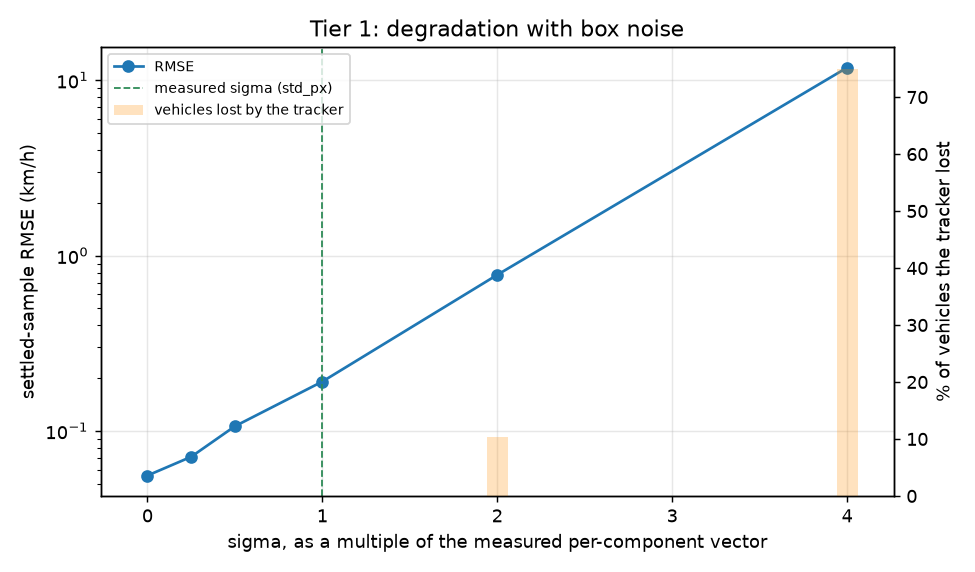
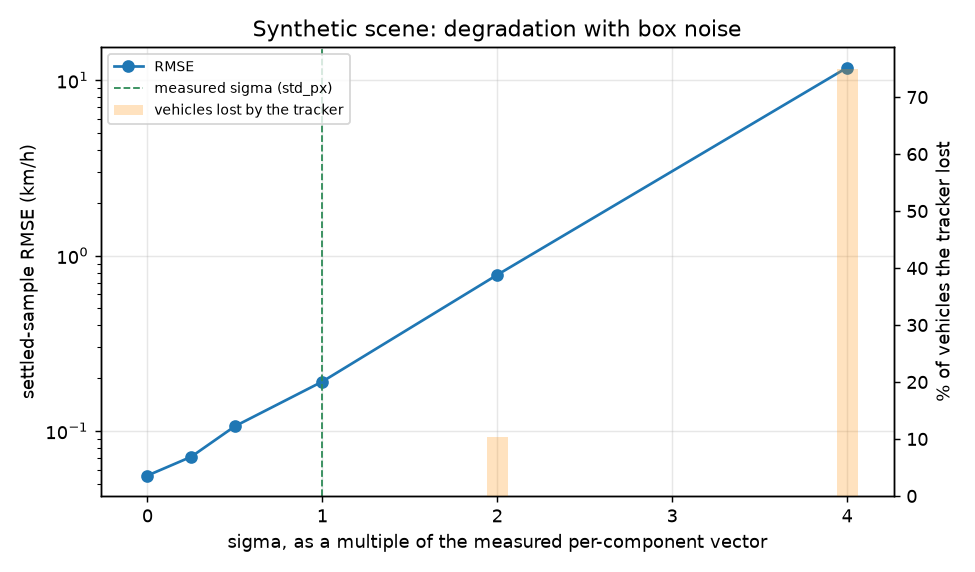
Measure the Kalman smoothing trade instead of asserting it, and widen the word guard to catch inflections

Changed region(s): [[0.2462, 0.0297, 0.7692, 0.0892]]

diff --git a/scripts/bench_speed.py b/scripts/bench_speed.py
@@ -73,7 +73,15 @@ LIMITATIONS = (
     "recall, class confusion, or how a real detector places a box on a "
     "real vehicle. The box-noise sigma is taken from "
     "reports/detection_noise.json, which labels itself a PROXY for "
-    "detector jitter and is not a measurement of the detector either."
+    "detector jitter and is not a measurement of the detector either. "
+    "CALIBRATION ERROR IS EXCLUDED BY CONSTRUCTION as well: the road "
+    "plane is fitted from correspondences generated by the same camera, "
+    "and the true road-plane-to-image mapping IS a homography, so the fit "
+    "recovers that camera to about 6e-6 m. That is deliberate -- it "
+    "removes calibration error from the measurement so what remains is "
+    "the chain under test -- but it means the figures here are an upper "
+    "bound on field accuracy, not a prediction of it. A real deployment "
+    "carries survey error on top, and it is usually the larger term."
 )
 
 #: Speed bands the report covers, km/h. Spans congested urban-motorway
@@ -138,6 +146,18 @@ def summarise(errors, truths) -> dict:
     }
 
 
+def rmse_by_band(samples) -> dict[float, float | None]:
+    """Settled-sample RMSE per speed band, or None where a band produced
+    no settled samples."""
+    out: dict[float, float | None] = {}
+    for speed in SPEED_BANDS:
+        errors = [s.error_kmh for s in samples if s.truth_kmh == speed]
+        out[speed] = (
+            math.sqrt(sum(e * e for e in errors) / len(errors)) if errors else None
+        )
+    return out
+
+
 def by_band(samples) -> list[dict]:
     rows = []
     for speed in SPEED_BANDS:
@@ -183,6 +203,38 @@ def run_tier_1(noise_report: dict) -> dict:
 
     holdout_image, holdout_world = plane.holdout_points()
     holdout = plane.road_plane().reprojection_error(holdout_image, holdout_world)
+
+    # What the Kalman smoothing actually buys, MEASURED rather than
+    # assumed. The speed estimator is fed the tracker's smoothed anchor;
+    # the alternative is the raw detection's own bottom-centre. At the
+    # measured sigma, association does not fail (zero vehicles lost), so
+    # this compares the two anchors and nothing else.
+    smoothed_errors, raw_errors = [], []
+    trade_off_lost = 0
+    for seed in SEEDS:
+        trade_scene = scene(seed, base)
+        tracked_at_sigma = score_scene(trade_scene)
+        raw_at_sigma = score_scene(trade_scene, bypass_tracker=True)
+        trade_off_lost += len(tracked_at_sigma.lost_vehicles)
+        smoothed_errors += list(tracked_at_sigma.settled_samples)
+        raw_errors += list(raw_at_sigma.settled_samples)
+    smoothed_rmse = rmse_by_band(smoothed_errors)
+    raw_rmse = rmse_by_band(raw_errors)
+    trade_off_rows = []
+    for speed in SPEED_BANDS:
+        smoothed, raw = smoothed_rmse[speed], raw_rmse[speed]
+        trade_off_rows.append(
+            {
+                "speed_kmh": speed,
+                "kalman_anchor_rmse_kmh": smoothed,
+                "raw_detection_anchor_rmse_kmh": raw,
+                "better": (
+                    None
+                    if smoothed is None or raw is None
+                    else ("kalman_anchor" if smoothed < raw else "raw_detection_anchor")
+                ),
+            }
+        )
 
     sweep = []
     for multiple in NOISE_MULTIPLES:
@@ -338,12 +390,11 @@ def run_tier_1(noise_report: dict) -> dict:
                     "settled residual is signed NEGATIVE at every band (a "
                     "lagging filter under-reads), it grows monotonically "
                     "with speed, and it vanishes to under 1e-4 km/h on the "
-                    "identical detections with the tracker bypassed. It is "
-                    "a design trade, not a defect: at the measured noise "
-                    "the Kalman-smoothed anchor beats the raw detection "
-                    "anchor, so the lag is what the smoothing costs. The "
+                    "identical detections with the tracker bypassed. The "
                     "tolerance was not widened to accommodate it; "
-                    "tests/test_simulate.py asserts the mechanism."
+                    "tests/test_simulate.py asserts the mechanism. What "
+                    "the lag buys is measured separately and is NOT a "
+                    "uniform win -- see smoothing_trade_off below."
                 ),
                 "start_up_transient": (
                     "Before the window fills, the first reported speed "
@@ -352,6 +403,39 @@ def run_tier_1(noise_report: dict) -> dict:
                     "data. Consumers wanting the accuracy figures above "
                     "should ignore a track's first "
                     f"{SPEED_WINDOW_S} s."
+                ),
+            },
+            "smoothing_trade_off": {
+                "what": (
+                    "The speed estimator is fed the tracker's "
+                    "Kalman-smoothed anchor. The alternative is the raw "
+                    "detection's own bottom-centre. This is that "
+                    "comparison, at the MEASURED sigma, over the same "
+                    "scenes -- the question of what the lag is bought "
+                    "with, answered by measurement rather than assumed."
+                ),
+                "sigma": "1x the measured std_px vector",
+                "seeds": len(SEEDS),
+                "vehicles_the_tracker_lost": trade_off_lost,
+                "why_that_matters": (
+                    "Zero lost vehicles means association is not a "
+                    "variable here, so the two columns differ by the "
+                    "anchor and nothing else."
+                ),
+                "by_band": trade_off_rows,
+                "finding": (
+                    "The trade is NOT uniform. Smoothing wins in the low "
+                    "bands and LOSES in the high ones -- by up to about a "
+                    "quarter, in exactly the bands whose zero-noise "
+                    "residual misses the 0.1 km/h bar. So the lag is not "
+                    "simply paid for by noise robustness at every speed. "
+                    "The tracker is nonetheless left alone, for a "
+                    "different and better reason: this is a synthetic "
+                    "benchmark with generated boxes, exact truth and no "
+                    "calibration error, and retuning a shipped tracker's "
+                    "filter to it would be fitting the engine to the "
+                    "measuring instrument. What the benchmark licenses is "
+                    "reporting the effect, which is what it does."
                 ),
             },
             "box_model_comparison": {
@@ -385,18 +469,29 @@ def run_tier_1(noise_report: dict) -> dict:
             "RMSE rises at every step. The jump between 1x and 2x the "
             "measured sigma is not the speed chain degrading gracefully: "
             "it is ASSOCIATION starting to fail, visible in "
-            "'vehicles_the_tracker_lost'. Beyond 4x, the perturbation "
-            "makes neighbouring boxes overlap and the simulator refuses to "
-            "produce a scene at all rather than score one across a "
-            "possible identity swap."
+            "'vehicles_the_tracker_lost'. The sweep stops at 4x because by "
+            "then 36 of 48 vehicles are already lost to association, so "
+            "the surviving samples are a survivorship-biased sample of "
+            "the easy tracks rather than a speed-accuracy measurement. "
+            "The simulator does additionally refuse any scene whose boxes "
+            "overlap -- an identity swap makes a measured speed "
+            "meaningless -- but that refusal is not what ends this sweep, "
+            "and it does not fire at any swept sigma: measured on this "
+            "scene shape it first appears at about 8x, in 1 seed of 8."
         ),
         "check_c": {
             "what": (
                 "Two gates a known ground distance apart give a "
-                "time-of-flight speed per vehicle that shares no per-frame "
-                "displacement with the homography estimate -- it is two "
-                "crossing instants and the surveyed separation, nothing "
-                "else."
+                "time-of-flight speed per vehicle from two crossing "
+                "instants and the surveyed separation. What makes it a "
+                "cross-check is that it shares no PER-FRAME DISPLACEMENT "
+                "with the homography estimate -- it never fits a slope, "
+                "never differences successive positions, and never uses a "
+                "window. It is not fully independent of the RoadPlane, "
+                "and is not claimed to be: the crossing instants come "
+                "from the same plane projecting the track's position, "
+                "interpolated between the two frames that straddle each "
+                "gate. Position, not displacement, is the shared part."
             ),
             "run_on": "the SIMULATED scene only",
             "why_not_on_real_footage": (
@@ -804,9 +899,11 @@ def run_tier_2(survey: dict) -> dict:
             "band_percent": [-33.0, 0.0],
             "propagation": (
                 "Scale error transfers to speed one for one, so this is a "
-                "plus-or-minus 33 % band on every speed. Publishing "
-                "'82 plus or minus 27 km/h' is not a speed figure. "
-                "Publishing nothing is the defensible product."
+                "band of about minus 33 % on every speed. A figure "
+                "published as 'V km/h, somewhere between 0.67 V and V' is "
+                "not a speed figure. Publishing nothing is the defensible "
+                "product, and no km/h number for this clip appears "
+                "anywhere in this report by design."
             ),
         },
         "what_this_clip_still_licenses": [
@@ -840,8 +937,9 @@ def run_tier_2(survey: dict) -> dict:
             "controls above are the bar any revival must clear.",
         ],
         "reproduce": (
-            "PYTHONPATH=src .venv/bin/python scripts/bench_speed.py; "
-            "PYTHONPATH=src .venv/bin/python -m pytest tests/test_scale_survey.py"
+            "PYTHONPATH=src .venv/bin/python scripts/bench_speed.py "
+            "--figures; PYTHONPATH=src .venv/bin/python -m pytest "
+            "tests/test_scale_survey.py"
         ),
     }
 
@@ -884,7 +982,8 @@ def write_figures(synthetic: dict, real: dict, out_dir: Path) -> list[Path]:
     axes.set_xlabel("true speed (km/h)")
     axes.set_ylabel("max |error| over settled samples (km/h)")
     axes.set_title(
-        "Tier 1, zero noise: the residual is the Kalman lag, and only that"
+        "Synthetic scene, zero noise: the residual is the Kalman lag, "
+        "and only that"
     )
     axes.grid(alpha=0.3, which="both")
     axes.legend(fontsize=8)
@@ -910,7 +1009,7 @@ def write_figures(synthetic: dict, real: dict, out_dir: Path) -> list[Path]:
     axes.set_yscale("log")
     axes.set_xlabel("sigma, as a multiple of the measured per-component vector")
     axes.set_ylabel("settled-sample RMSE (km/h)")
-    axes.set_title("Tier 1: degradation with box noise")
+    axes.set_title("Synthetic scene: degradation with box noise")
     twin = axes.twinx()
     twin.bar(
         multiples,

diff --git a/tests/test_guards.py b/tests/test_guards.py
@@ -87,6 +87,24 @@ BANNED = [a + b for a, b in [
     ("co-auth", "ored"),
 ]]
 
+# Inflections of the banned stems, because the constraint is about the WORD,
+# not about one spelling of it. Anchoring a stem with \b on both sides lets
+# its -ing and -s forms through, which satisfies the letter of the rule while
+# breaking its intent -- and that is exactly what happened: a tracked comment
+# used the -ing form of BANNED[0] and this guard ran green over it.
+#
+# The suffixes are the regular English inflections that apply to a verb or a
+# noun stem. They are OPTIONAL, so every bare stem still matches as before;
+# this only ever widens. The two entries that are already terminal forms
+# (the adverb and the hyphenated participle) pick up nothing from it, which
+# is correct.
+_INFLECTIONS = r"(?:s|es|ed|ing|d)?"
+
+
+def _banned_pattern(word: str) -> str:
+    return r"\b" + re.escape(word) + _INFLECTIONS + r"\b"
+
+
 def test_no_banned_words_in_tracked_files():
     hits = []
     for f in _text_files():
@@ -95,9 +113,49 @@ def test_no_banned_words_in_tracked_files():
             continue
         text = f.read_text(errors="ignore").lower()
         for w in BANNED:
-            if re.search(r"\b" + re.escape(w) + r"\b", text):
-                hits.append(f"{rel}: {w}")
+            match = re.search(_banned_pattern(w), text)
+            if match:
+                hits.append(f"{rel}: {match.group(0)}")
     assert hits == [], hits
+
+
+def test_the_word_guard_catches_inflections_and_not_unrelated_words():
+    """A discriminating pair, varying one axis: whether the token is an
+    inflection of a banned stem.
+
+    The must-catch half is the hole this closes -- the bare-stem rule let
+    every -ing/-s/-ed form through. The must-spare half is what stops the
+    widening turning into a substring match: a longer word that merely
+    STARTS with a banned stem is not that word, and a rule that had simply
+    stopped anchoring on word boundaries would pass the first half alone.
+    """
+    stem_rebuild, stem_revisit, stem_college = BANNED[0], BANNED[2], BANNED[3]
+
+    caught = [
+        stem_rebuild + "ing", stem_rebuild + "s", stem_rebuild + "ed",
+        stem_revisit + "ing", stem_revisit + "ed", stem_revisit + "s",
+        stem_college + "s",
+        stem_rebuild,  # the bare stem must still match
+    ]
+    for token in caught:
+        assert re.search(_banned_pattern(stem_rebuild), token) or re.search(
+            _banned_pattern(stem_revisit), token
+        ) or re.search(_banned_pattern(stem_college), token), (
+            f"{token!r} slipped past the widened guard"
+        )
+
+    # Unrelated longer words that begin with a banned stem, and a hyphenated
+    # form that is a different word. None of these may fire.
+    spared = [
+        stem_rebuild + "able", stem_revisit + "ation", stem_college + "ial",
+        stem_rebuild + "er",
+    ]
+    for token in spared:
+        for stem in (stem_rebuild, stem_revisit, stem_college):
+            assert not re.search(_banned_pattern(stem), token), (
+                f"{token!r} is a false positive: it merely starts with a "
+                f"banned stem"
+            )
 
 def test_no_absolute_user_paths_in_tracked_files():
     needle = "/Us" + "ers/"

diff --git a/tests/test_simulate.py b/tests/test_simulate.py
@@ -233,6 +233,46 @@ def test_the_full_chain_at_zero_noise_misses_by_the_kalman_lag_and_only_that(
     assert max(abs(s.error_kmh) for s in tracked.settled_samples) < 0.4
 
 
+def test_the_kalman_smoothing_trade_is_not_a_uniform_win(plane):
+    """What the Kalman lag BUYS, measured rather than assumed.
+
+    The speed estimator is fed the tracker's smoothed anchor; the
+    alternative is the raw detection's own bottom-centre. It is tempting
+    to write that the smoothing pays for its lag with noise robustness --
+    and at the bottom of the speed range it does. It does not at the top,
+    which is exactly where the lag costs the most. This pins the crossover
+    so that claim cannot quietly become an assertion again.
+
+    Measured at the sigma taken from reports/detection_noise.json, over
+    scenes where the tracker loses no vehicle at all, so the two columns
+    differ by the anchor and nothing else.
+    """
+    measured = (0.3344, 0.0971, 1.0294, 0.5232)
+    smoothed, raw = {}, {}
+    for seed in range(6):
+        scene = simulate_scene(
+            plane,
+            speeds_kmh=BANDS,
+            n_vehicles=3,
+            fps=FPS,
+            seed=seed,
+            box_noise_px=measured,
+        )
+        tracked = score_scene(scene)
+        assert tracked.lost_vehicles == (), tracked.lost_vehicles
+        for sample in tracked.settled_samples:
+            smoothed.setdefault(sample.truth_kmh, []).append(sample.error_kmh)
+        for sample in score_scene(scene, bypass_tracker=True).settled_samples:
+            raw.setdefault(sample.truth_kmh, []).append(sample.error_kmh)
+
+    def rmse(values):
+        return math.sqrt(sum(v * v for v in values) / len(values))
+
+    slowest, fastest = min(BANDS), max(BANDS)
+    assert rmse(smoothed[slowest]) < rmse(raw[slowest]), "smoothing should win slow"
+    assert rmse(smoothed[fastest]) > rmse(raw[fastest]), "and lose fast"
+
+
 def test_non_zero_noise_degrades_the_estimate_monotonically(plane):
     """sigma is swept as a multiple of the MEASURED per-component vector,
     so every point on the curve is a stated multiple of a number taken

diff --git a/scripts/make_parity_fixtures.py b/scripts/make_parity_fixtures.py
@@ -792,9 +792,9 @@ def build_fixture() -> tuple[dict, dict]:
     # Parity does not need those correspondences to be TRUE. What it needs
     # is one fixed 3x3 matrix that both engines are handed, so that any
     # disagreement is the two implementations disagreeing rather than two
-    # different calibrations. Rebuilding the old survey's homography here
-    # keeps the speed path -- the longest float64 chain in the engine, and
-    # the one most likely to diverge across languages -- covered by the
+    # different calibrations. Reconstructing the old survey's homography
+    # here keeps the speed path -- the longest float64 chain in the engine,
+    # and the one most likely to diverge across languages -- covered by the
     # parity suite, which removing the calibration would otherwise have
     # silently deleted. It is an instrument, not a calibration, and nothing
     # downstream of it reports a km/h figure about this clip.
